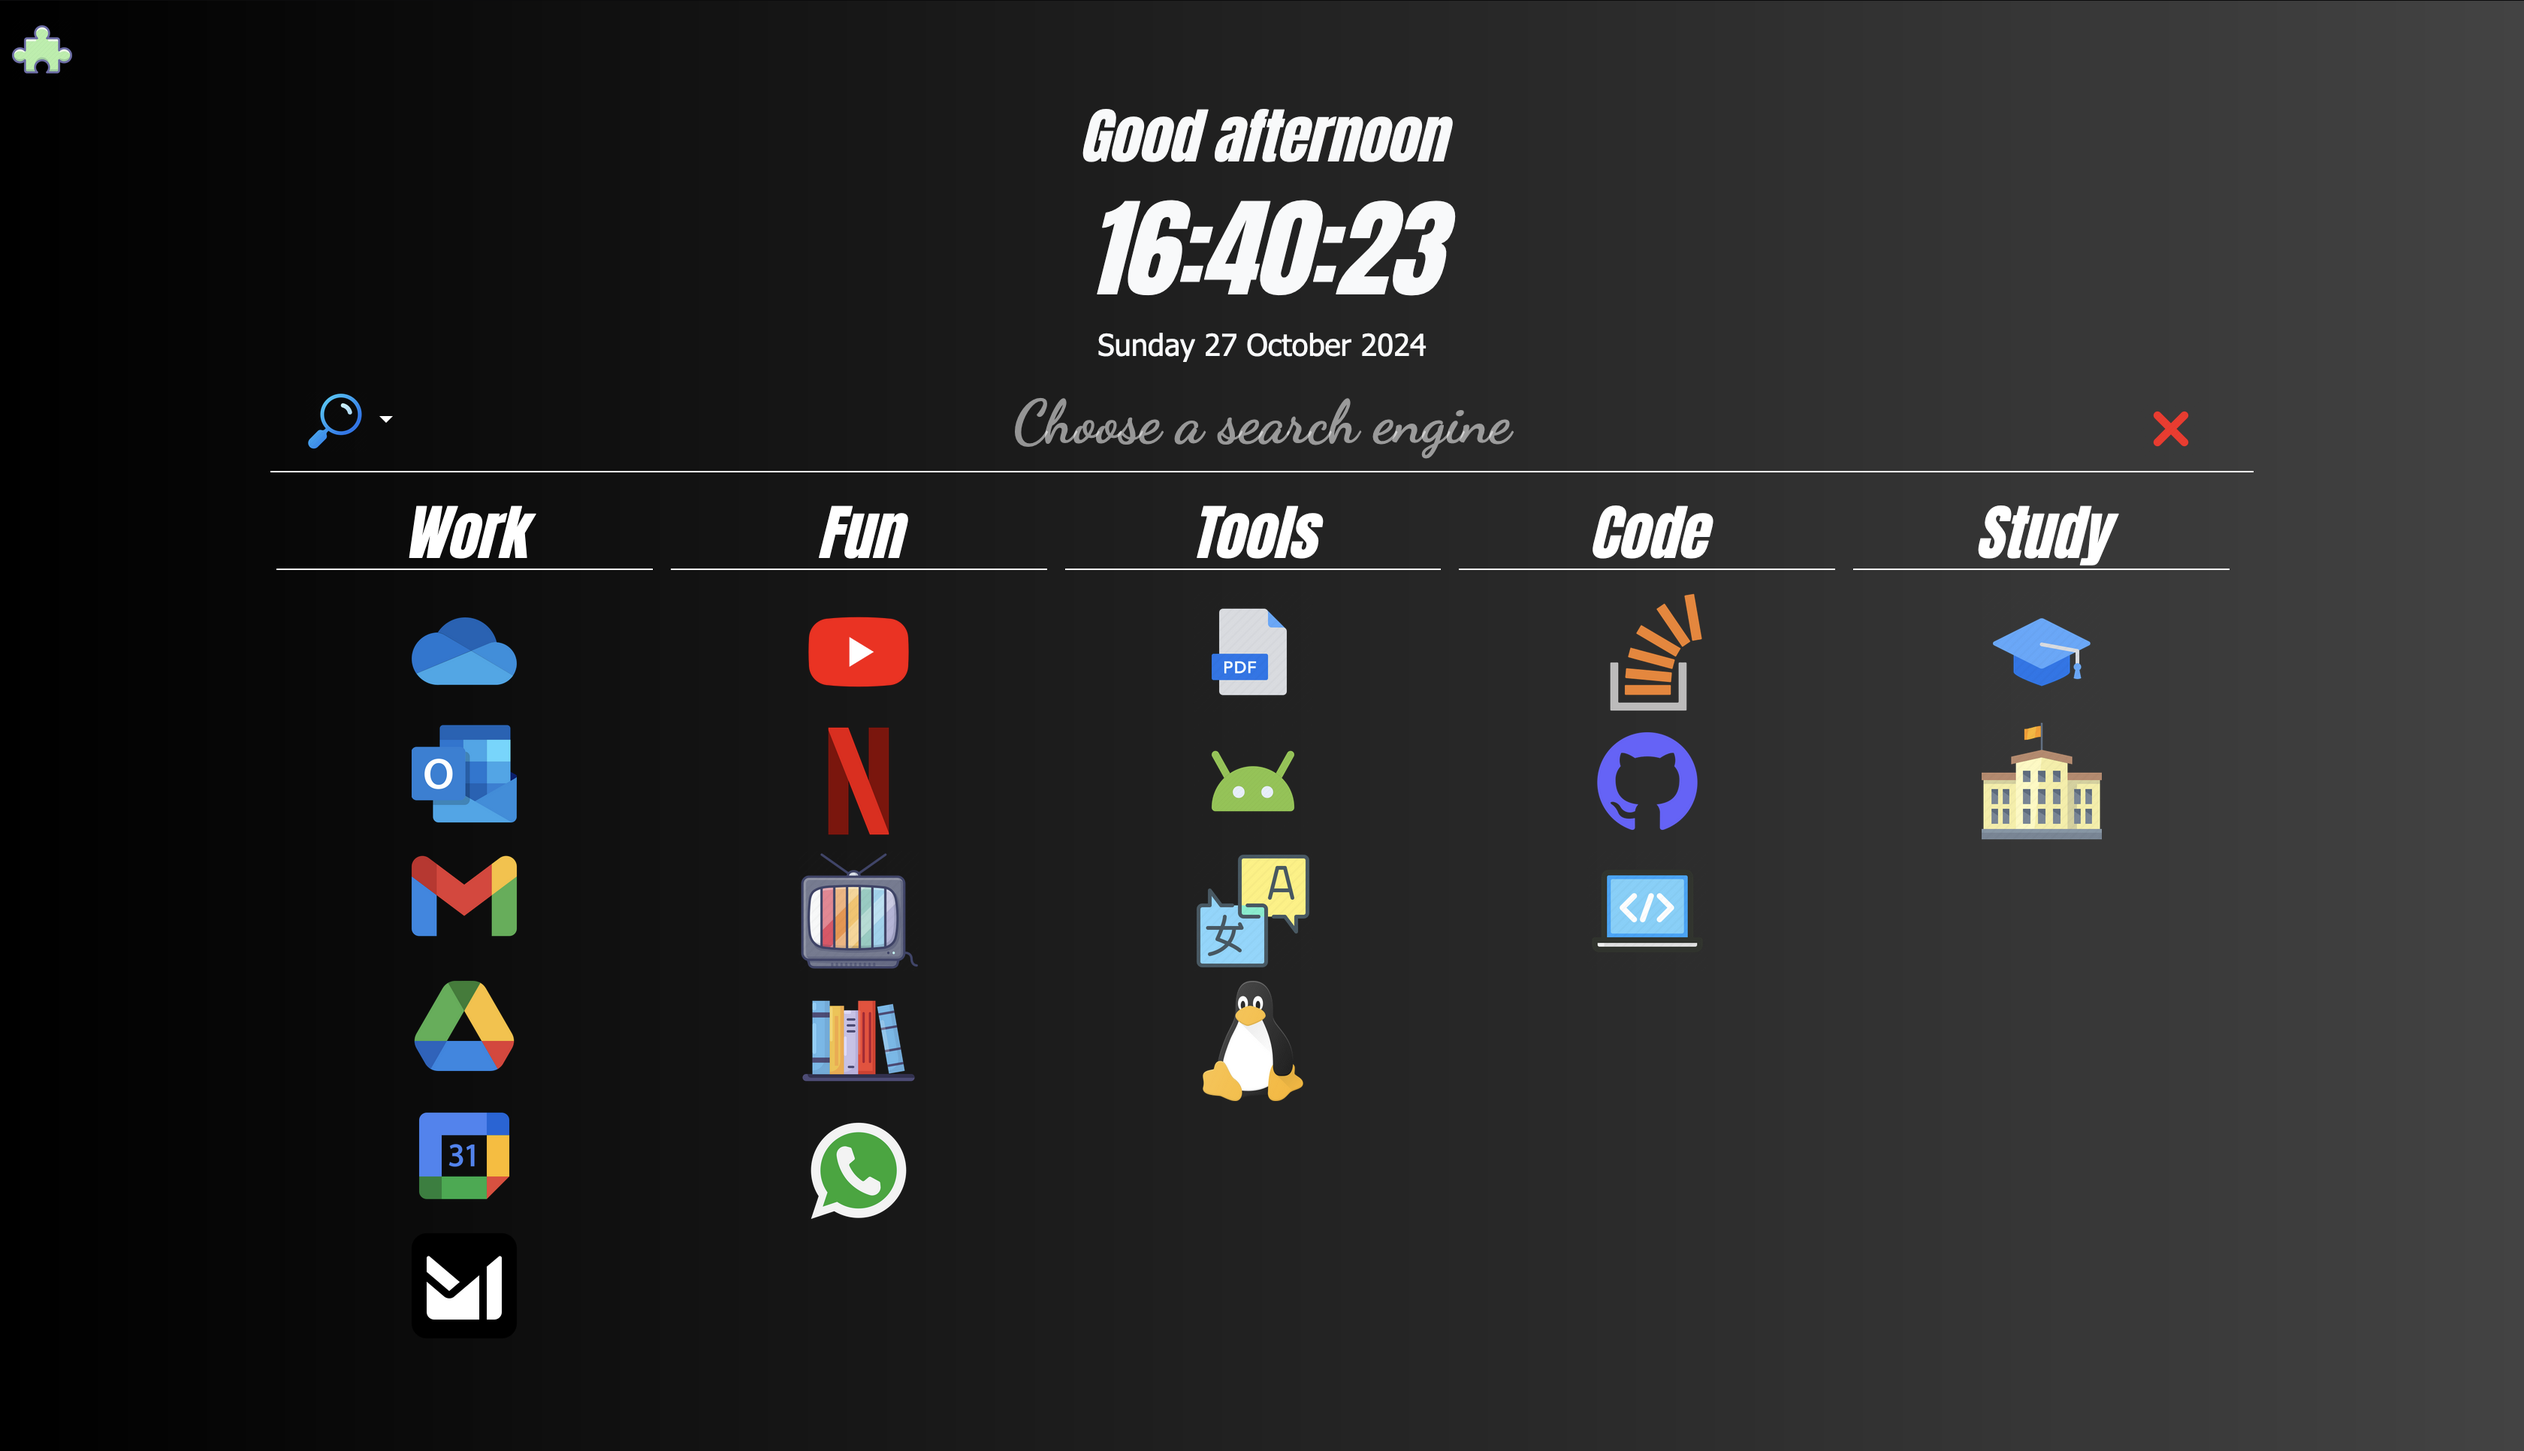
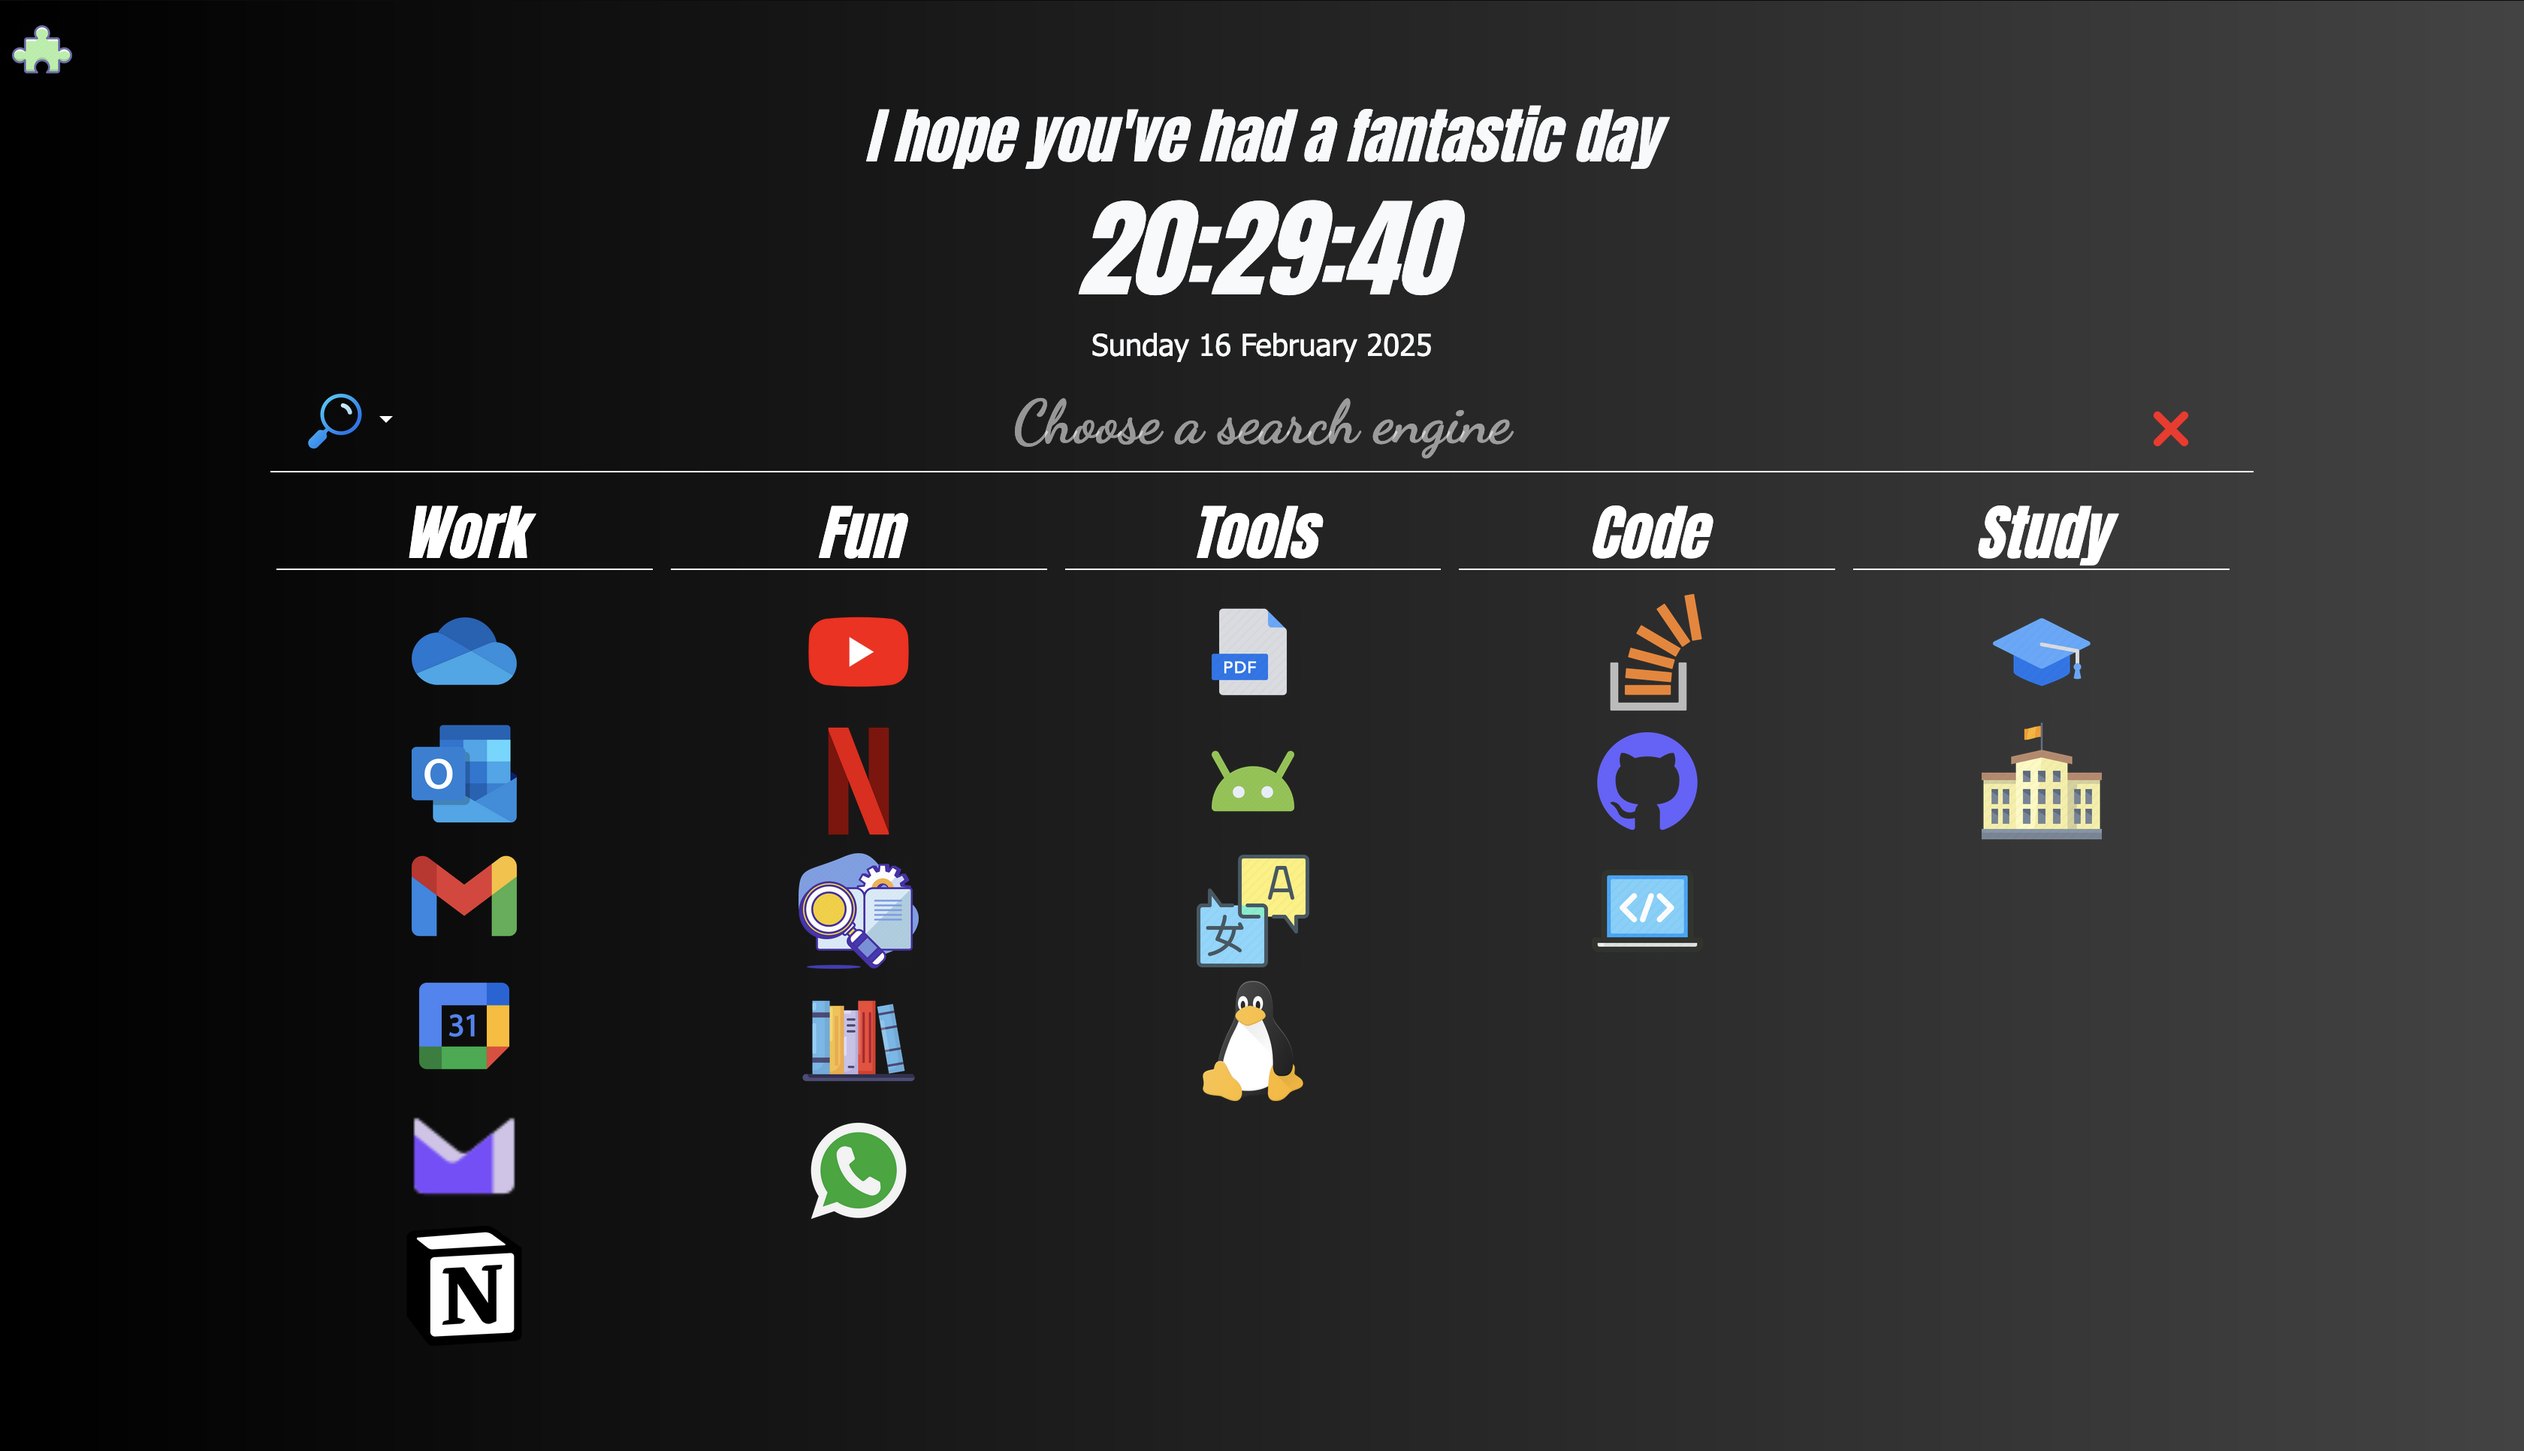
Add 'Academia.edu' and update screenshot

Changed region(s): [[0.3438, 0.0621, 0.6562, 0.2484], [0.1562, 0.6522, 0.2188, 0.9317], [0.3125, 0.5901, 0.375, 0.6832]]

diff --git a/index.html b/index.html
@@ -147,9 +147,9 @@
                 width="80"
               />
             </a>
-            <a href="https://comunidadmontepinar.es/" target="_blank">
+            <a href="https://www.academia.edu/" target="_blank">
               <img
-                src="https://cdn1.iconfinder.com/data/icons/lifestyle-entertainment-vol-3/512/tv_television_show_series-256.png"
+                src="https://cdn2.iconfinder.com/data/icons/startup-3-1/512/9-Case_study-512.png"
                 width="80"
               />
             </a>
